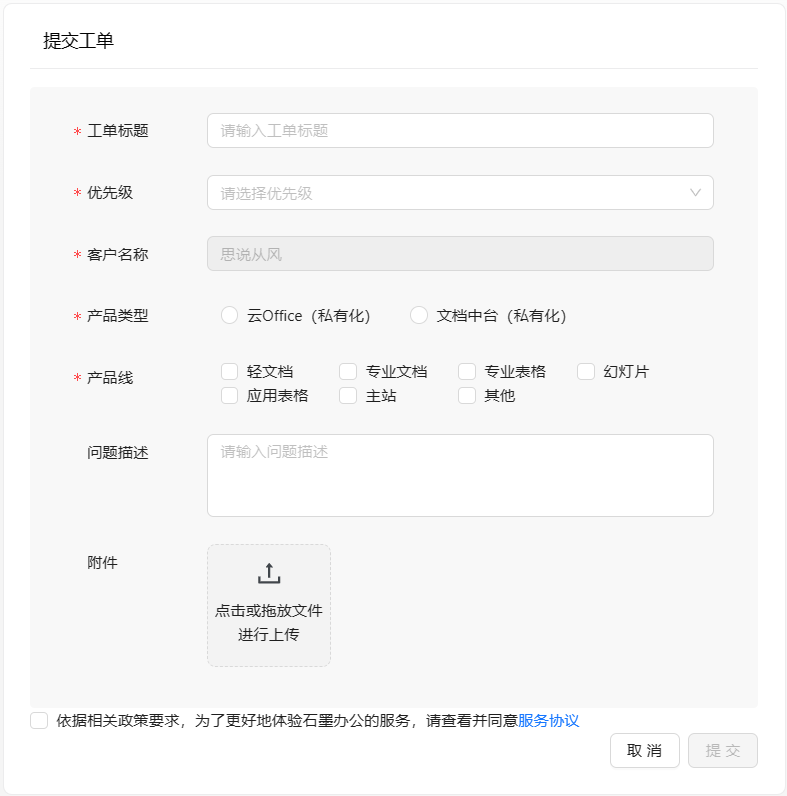
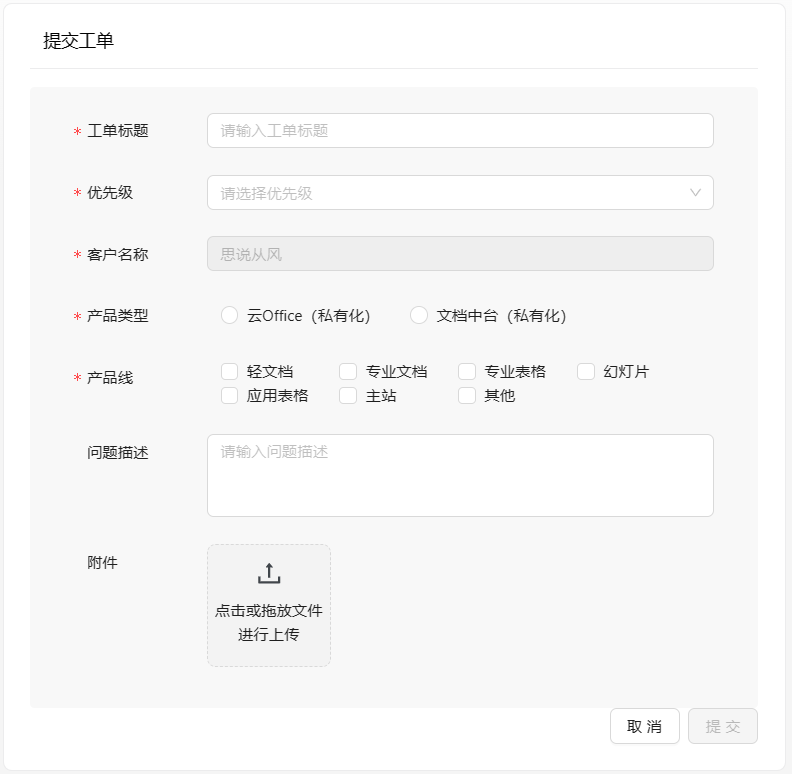
更新企业管理和工单管理文档

diff --git a/co/userguide/enterprise-management.md b/co/userguide/enterprise-management.md
@@ -9,7 +9,7 @@ sidebar_position: 2
 
 ## 企业信息
 
-未进行企业认证的用户，对控制台的使用权限将受限，请及时提交企业认证。
+未进行企业认证的用户，对服务台的使用权限将受限，请及时提交企业认证。
 :::info 提示
 
 请填写正确的联系电话和邮箱，以便后续石墨向您发送相关通知。
@@ -53,10 +53,7 @@ sidebar_position: 2
 **操作权限说明：**
 
 - 移交企业：仅企业创建者支持移交企业（开发中，敬请期待）。
-
-- 退出企业：执行操作后，当前登录账号失去管理员权限且退出该企业。
-  - 对于单用户多企业场景。当前登录账号退出企业后，刷新页面会重新定位一个新的企业。定位优先级：已创建的且已通过认证的企业  > 剩下的加入企业中最早创建的那个 > 待认证企业
-  - 对于单用户单企业场景。当前登录账号退出企业后，无法登录开放服务平台，请谨慎操作。
+- 退出企业：执行操作后，当前登录账号失去管理员权限且退出该企业。对于单用户多企业场景，刷新页面会重新定位一个新的企业。定位优先级：已创建的且已通过认证的企业  > 剩下的加入企业中最早创建的那个 > 待认证企业
 - 删除：仅删除非企业创建者，被删除的账号将失去管理员权限且退出该企业。
 
 ### 添加管理员
@@ -71,7 +68,7 @@ sidebar_position: 2
 
 **我创建的企业**
 
-- 如果我创建的企业已经通过企业认证。切换到对应企业后，控制台则刷新为该企业的数据。
+- 如果我创建的企业已经通过企业认证。切换到对应企业后，服务台则刷新为该企业的数据。
 - 如果我创建的企业尚未通过企业认证，则表示企业并不存在，显示企业当前的状态，认证中或待认证。
 
 **我加入的企业**

diff --git a/docs/03control-center/enterprise-management.md b/docs/03control-center/enterprise-management.md
@@ -53,10 +53,7 @@ sidebar_position: 3
 **操作权限说明：**
 
 - 移交企业：仅企业创建者支持移交企业（开发中，敬请期待）。
-
-- 退出企业：执行操作后，当前登录账号失去管理员权限且退出该企业。
-  - 对于单用户多企业场景。当前登录账号退出企业后，刷新页面会重新定位一个新的企业。定位优先级：已创建的且已通过认证的企业  > 剩下的加入企业中最早创建的那个 > 待认证企业
-  - 对于单用户单企业场景。当前登录账号退出企业后，无法登录开放服务平台，请谨慎操作。
+- 退出企业：执行操作后，当前登录账号失去管理员权限且退出该企业。对于单用户多企业场景，刷新页面会重新定位一个新的企业。定位优先级：已创建的且已通过认证的企业  > 剩下的加入企业中最早创建的那个 > 待认证企业
 - 删除：仅删除非企业创建者，被删除的账号将失去管理员权限且退出该企业。
 
 ### 添加管理员

diff --git a/co/userguide/work-order-service.md b/co/userguide/work-order-service.md
@@ -9,15 +9,17 @@ sidebar_position: 3
 
 ## 工单流程图
 
+![flow-chart](./../image/userguide/flow-chart.png)
+
 ## 工单操作指导
 
-### 前置条件
+**前置条件**
 
 - 已购买并部署私有化产品
 - 已购买技术工单服务
-- 登录石墨开放服务平台，完成  [企业认证](./../userguide/enterprise-management.md)
+- 登录石墨开放服务平台，完成 [企业认证](./../userguide/enterprise-management.md)
 
-### 操作步骤
+**操作步骤**
 
 **步骤1：**单击页面右上角【私有化部署】下拉框，选择【服务台】。
 :::info 提示
@@ -40,7 +42,7 @@ sidebar_position: 3
 
 ![work-order1](./../image/userguide/work-order1.png)
 
-**步骤3：**勾选服务协议后，单击【提交】按钮，完成工单填写。
+**步骤3：**单击【提交】按钮，完成工单填写。
 
 **步骤4：**在私有化部署服务台导航栏，单击【工单记录】，可以查询已提交的工单列表和信息，还可以通过工单标题、日期等筛选工单。
 
